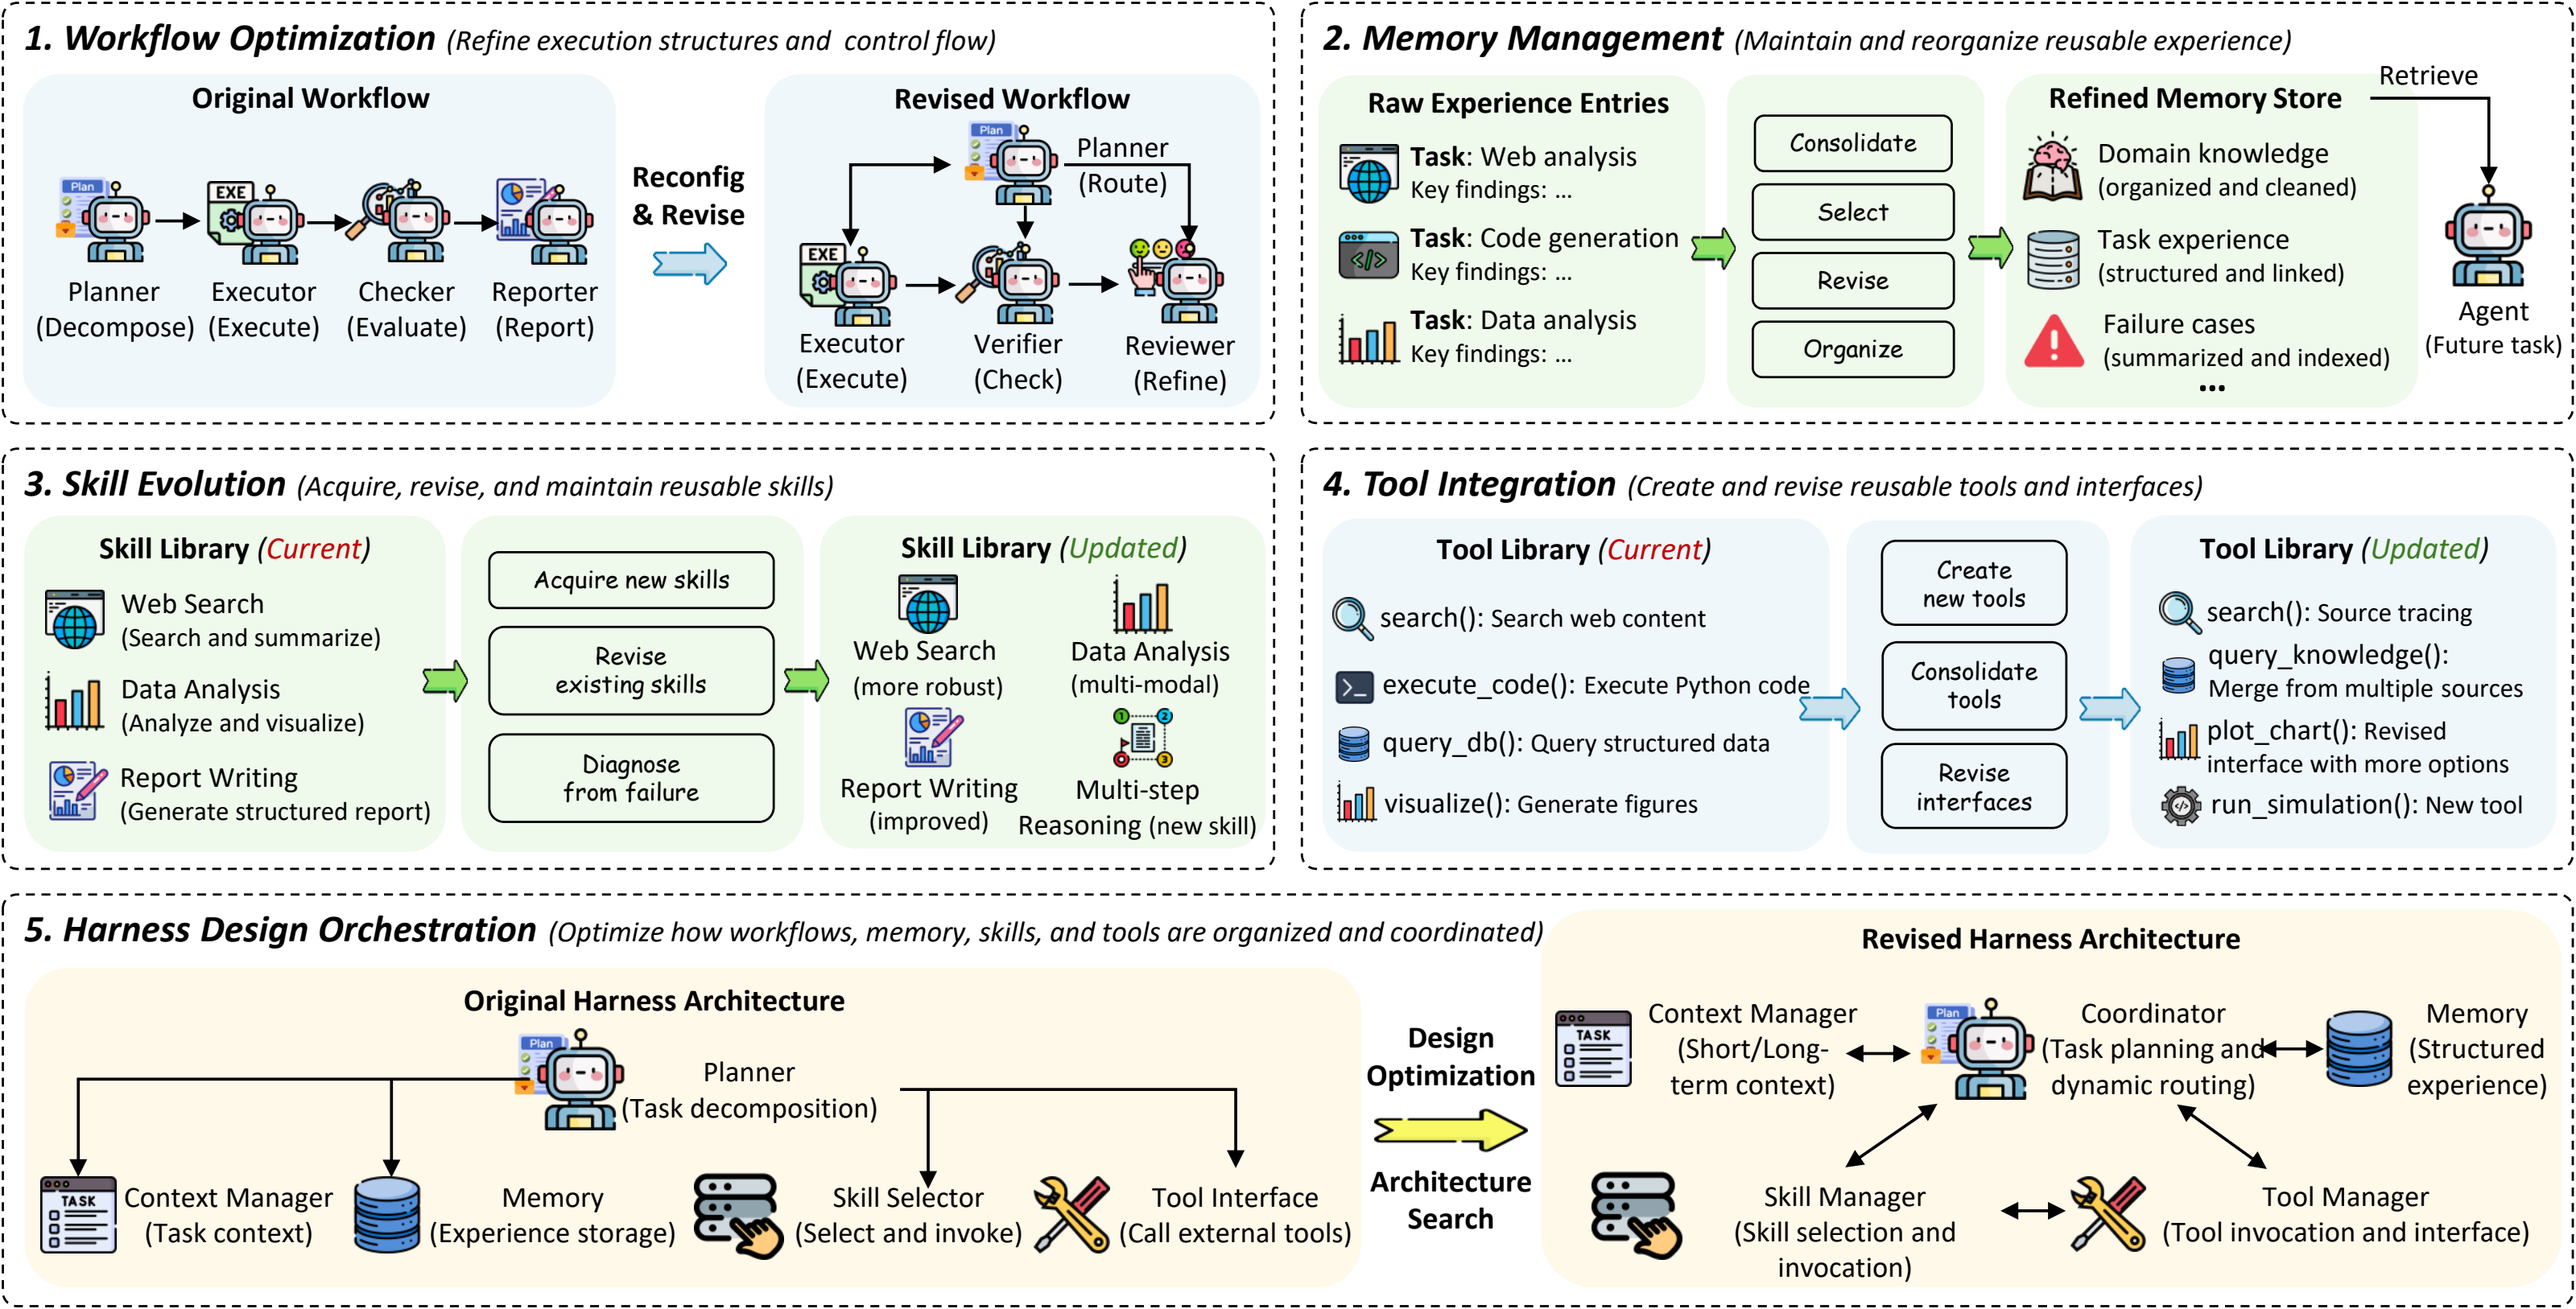
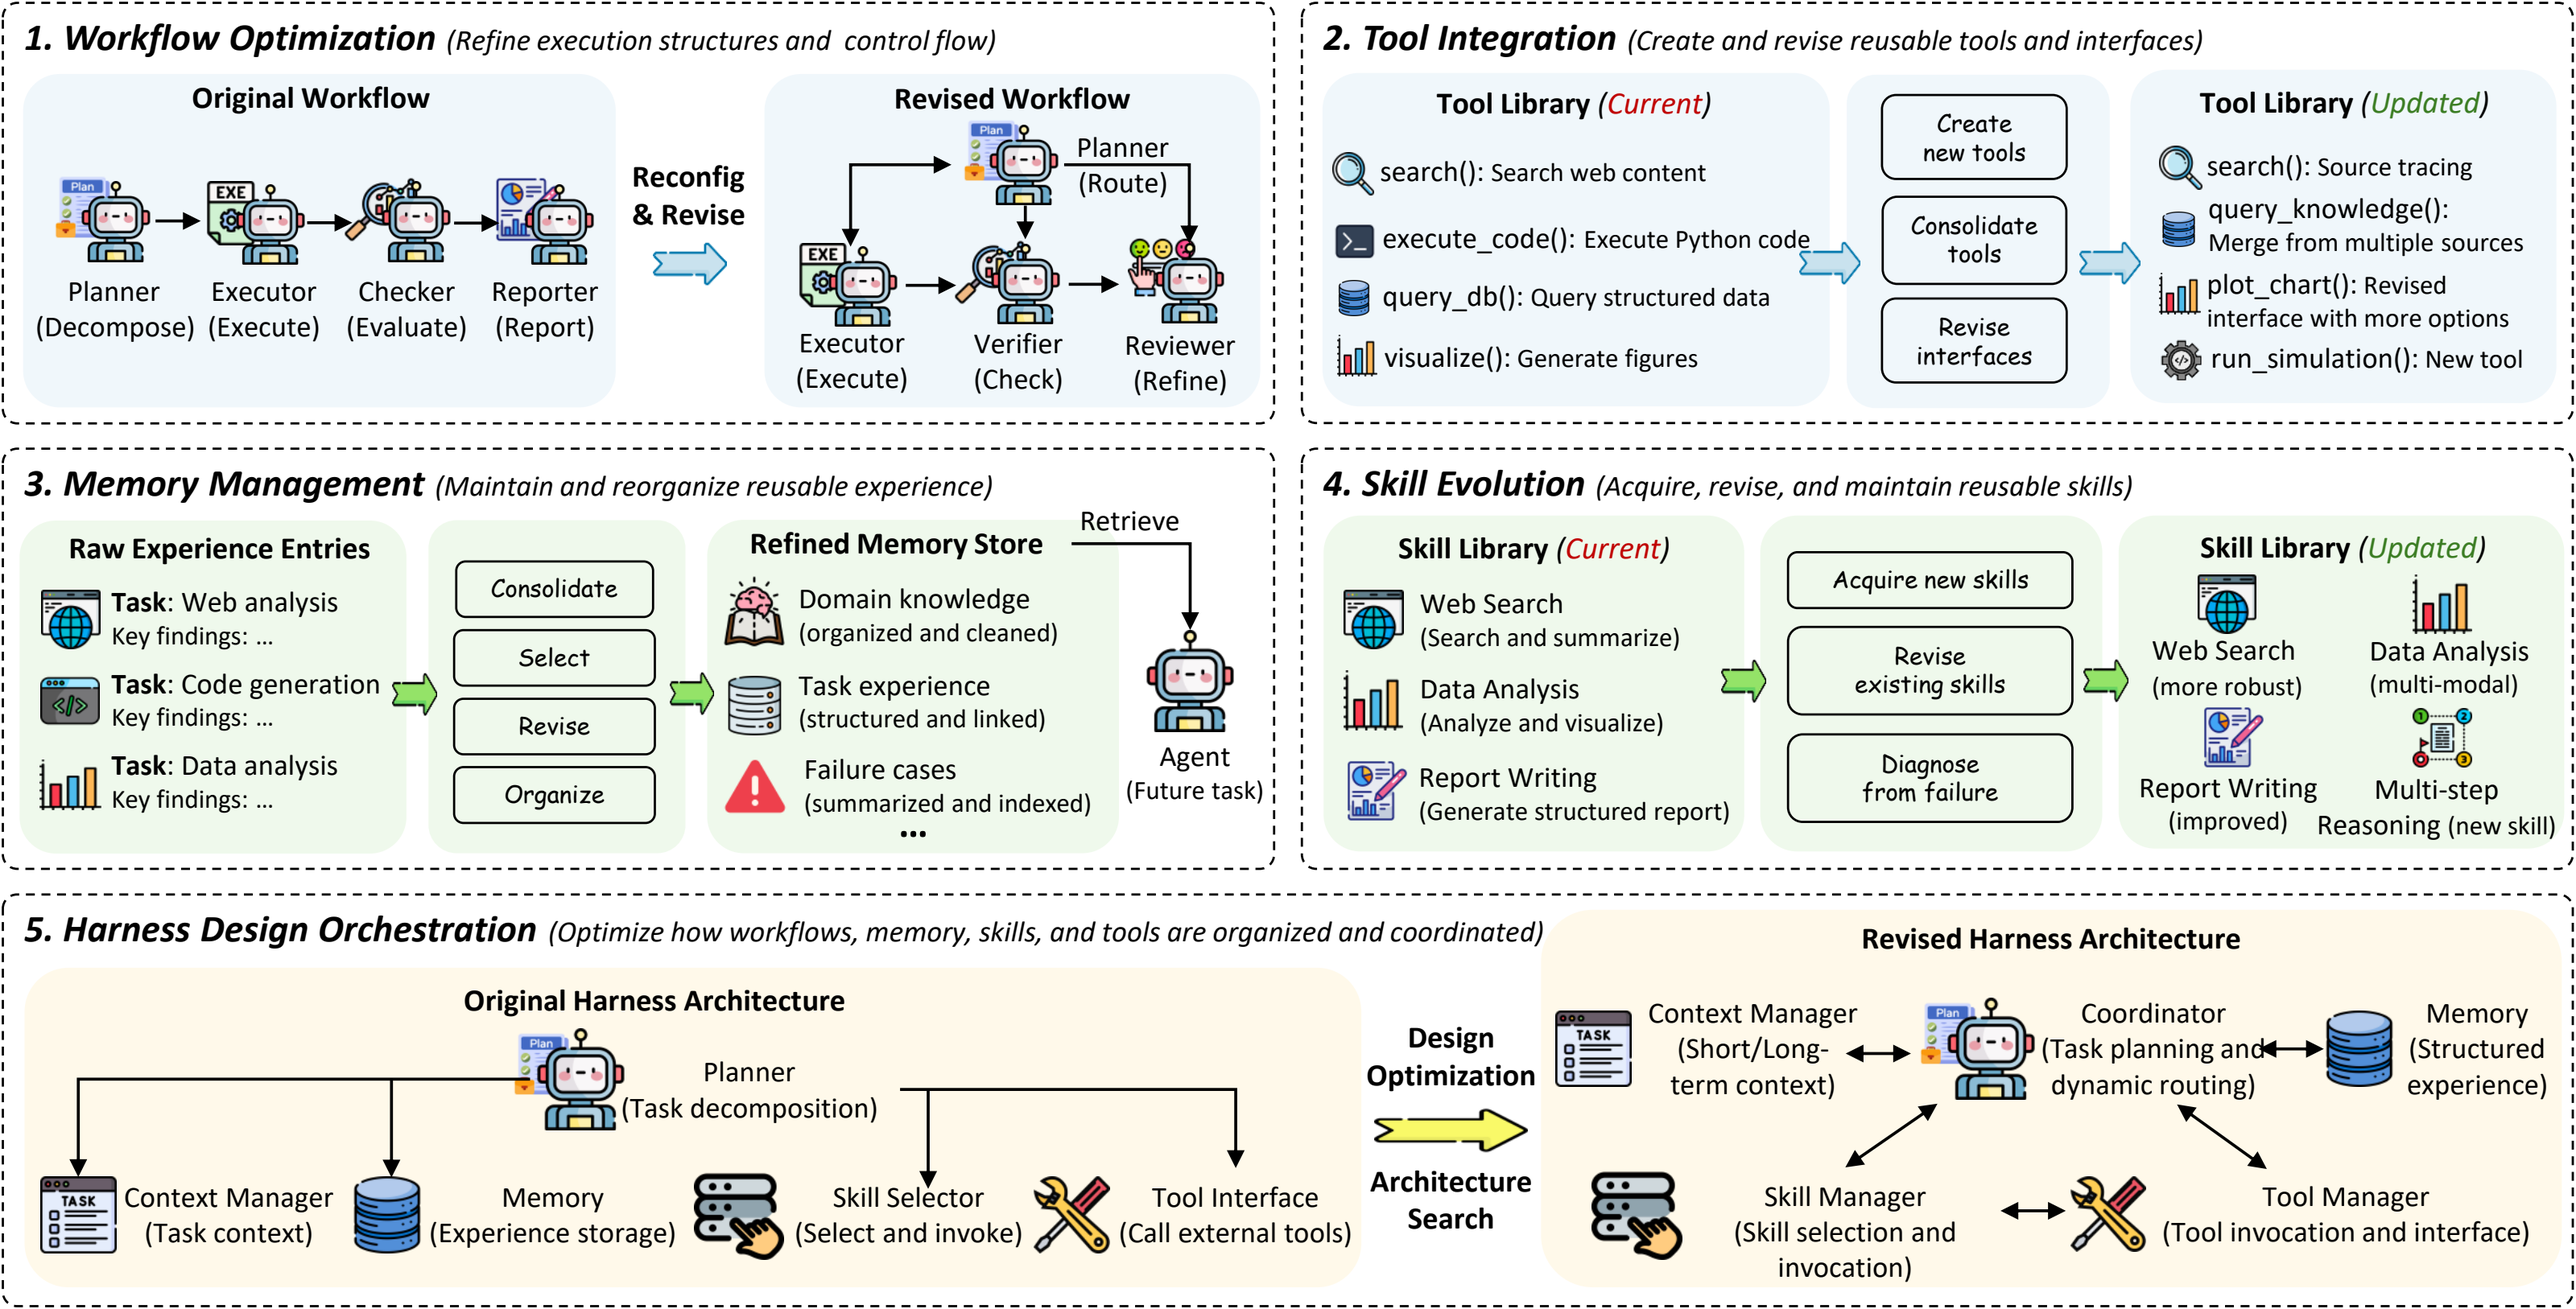
Update reliable RSI survey title, authors, papers, and figures

Changed region(s): [[0.0, 0.338, 1.0, 0.6454], [0.5, 0.0, 1.0, 0.3073]]

diff --git a/README.md b/README.md
@@ -1,4 +1,4 @@
-# What Improves, Who Drives Improve: A Roadmap Towards Recursive Self-Improvement
+# What Improves, Who Drives It: A Roadmap Towards Reliable Recursive Self-Improvement
 
 <div align="center">
   <a href="https://awesome.re"><img src="https://awesome.re/badge.svg" alt="Awesome"></a>
@@ -6,9 +6,9 @@
   <a href="https://github.com/DEEP-JLU/Awesome-RSI-Papers"><img src="https://img.shields.io/github/stars/DEEP-JLU/Awesome-RSI-Papers?style=flat" alt="GitHub stars"></a>
 </div>
 
-A curated collection of research papers, benchmarks, and open-source projects on **Recursive Self-Improvement**. This repository accompanies the survey *What Improves, Who Drives Improve: A Roadmap Towards Recursive Self-Improvement* and will be continuously updated.
+A curated collection of research papers, benchmarks, and open-source projects on **Recursive Self-Improvement**. This repository accompanies the survey *What Improves, Who Drives It: A Roadmap Towards Reliable Recursive Self-Improvement* and will be continuously updated.
 
-Recursive Self-Improvement studies how execution experience and feedback support persistent improvements to foundation models, agent harnesses, environments, and improvement mechanisms themselves. Building on the complementary axes of **What Improves** and **Who Drives Improve**, the collection organizes existing research into **seven interrelated milestones** toward RSI.
+Recursive Self-Improvement studies how execution experience and feedback support persistent improvements to foundation models, agent harnesses, environments, and the improver itself. Building on the complementary axes of **What Improves** and **Who Drives Improve**, the collection organizes existing research into **seven interrelated milestones** toward reliable RSI, emphasizing appropriate evolution targets, valid feedback, and verifiable future improvement capability.
 
 🤗 **Contributions are welcome.** If you find a missing resource or a relevant new work, please open an issue or submit a pull request.
 
@@ -22,7 +22,7 @@ Recursive Self-Improvement studies how execution experience and feedback support
 
 ## Overview
 
-The survey analyzes agent improvement toward RSI along **two complementary axes** (Fig. 1):
+The survey analyzes agent improvement toward reliable RSI along **two complementary axes** (Fig. 1):
 
 - **What Improves** characterizes the objects and scope of agent improvement, tracing how task-local output refinement extends to persistent changes in the agent, its environment, and the improver itself.
 - **Who Drives Improve** characterizes the sources of feedback and the mechanisms that guide improvement, explaining how signals are obtained and interpreted to identify weaknesses, evaluate candidate changes, and support further improvement as feedback mechanisms evolve.
@@ -32,7 +32,7 @@ The survey analyzes agent improvement toward RSI along **two complementary axes*
   <p><em>Fig. 1. Two-Axis Taxonomy Towards Recursive Self-Improvement.</em></p>
 </div>
 
-Based on the **What Improves** and **Who Drives Improve** axes in Fig. 1, we organize existing research toward RSI into **seven interrelated milestones**, as illustrated in Fig. 2.
+Based on the **What Improves** and **Who Drives Improve** axes in Fig. 1, we organize existing research toward reliable RSI into **seven interrelated milestones**, as illustrated in Fig. 2.
 
 <div align="center">
   <img width="100%" src="images/image1.png" alt="Fig. 2. Roadmap Toward Recursive Self-Improvement">
@@ -41,7 +41,7 @@ Based on the **What Improves** and **Who Drives Improve** axes in Fig. 1, we org
 
 - **Refining Output** improves task-local artifacts through critique, verification, and revision.
 - **Training Foundation Model** internalizes execution experience into persistent model capabilities.
-- **Evolving Agent Harness** improves workflows, memory, skills, tools, and integrated execution structures.
+- **Evolving Agent Harness** improves workflows, tools, memory, skills, and their orchestration.
 - **Building Environment** synthesizes, orchestrates, and evolves environments and their executable models.
 - **Automating Feedback** connects human-steered, environment-grounded, AI-facilitated, and evolving feedback.
 - **Co-Evolving Agent and Environment** couples persistent updates of agents and environments through asynchronous or synchronous co-evolution.
@@ -49,7 +49,7 @@ Based on the **What Improves** and **Who Drives Improve** axes in Fig. 1, we org
 
 ## Table of Contents
 
-- [What Improves, Who Drives Improve: A Roadmap Towards Recursive Self-Improvement](#what-improves-who-drives-improve-a-roadmap-towards-recursive-self-improvement)
+- [What Improves, Who Drives It: A Roadmap Towards Reliable Recursive Self-Improvement](#what-improves-who-drives-it-a-roadmap-towards-reliable-recursive-self-improvement)
   - [🎉 News](#-news)
   - [Overview](#overview)
   - [Table of Contents](#table-of-contents)
@@ -61,9 +61,9 @@ Based on the **What Improves** and **Who Drives Improve** axes in Fig. 1, we org
       - [Strengthening Adaptive Capabilities](#strengthening-adaptive-capabilities)
     - [Milestone III: Evolving Agent Harness](#milestone-iii-evolving-agent-harness)
       - [Workflow Optimization](#workflow-optimization)
+      - [Tool Integration](#tool-integration)
       - [Memory Management](#memory-management)
       - [Skill Evolution](#skill-evolution)
-      - [Tool Integration](#tool-integration)
       - [Harness Design Orchestration](#harness-design-orchestration)
     - [Milestone IV: Building Environment](#milestone-iv-building-environment)
       - [Environment Synthesis](#environment-synthesis)
@@ -207,12 +207,14 @@ Research papers are organized by the seven milestones introduced in the [Overvie
 - (ICLR 2026) **CodeGym** — Generalizable End-to-End Tool-Use RL with Synthetic CodeGym [[Paper]](https://proceedings.iclr.cc/paper_files/paper/2026/hash/1e4322fddd833f83c855660ac65e428d-Abstract-Conference.html)
 - (arXiv 2026) **OpenAgent** — Can Agents Generalize to the Open World? Unveiling the Fragility of Static Training in Tool Use [[Paper]](https://arxiv.org/abs/2607.01084)
 - (arXiv 2026) **RSIPO** — RSIPO: Recursive Self-Improving Policy Optimization for Agentic Reinforcement Learning via Skill-Policy Co-Evolution [[Paper]](https://arxiv.org/abs/2610.15772)
+- (arXiv 2026) **SAAS** — SAAS: Self-Aware Reinforcement Learning for Over-Search Mitigation in Agentic Search [[Paper]](https://arxiv.org/abs/2605.29796)
+- (arXiv 2026) **BAPO** — BAPO: Boundary-Aware Policy Optimization for Reliable Agentic Search [[Paper]](https://arxiv.org/abs/2601.11037)
 
 ### Milestone III: Evolving Agent Harness
 
 <div align="center">
   <img width="100%" src="images/image4.png" alt="Evolving Agent Harness">
-  <p><em>Workflow optimization, memory management, skill evolution, tool integration, and harness design orchestration.</em></p>
+  <p><em>Workflow optimization, tool integration, memory management, skill evolution, and harness design orchestration.</em></p>
 </div>
 
 #### Workflow Optimization
@@ -226,6 +228,17 @@ Research papers are organized by the seven milestones introduced in the [Overvie
 - (Proceedings of the AAAI Conference on Artificial Intelligence 2026) **A2Flow** — A²Flow: Automating Agentic Workflow Generation via Self-Adaptive Abstraction Operators [[Paper]](https://ojs.aaai.org/index.php/AAAI/article/view/40240)
 - (ICLR 2025) **ADAS** — Automated Design of Agentic Systems [[Paper]](https://openreview.net/pdf?id=t9U3LW7JVX)
 - (arXiv 2026) **CollabFlow** — CollabFlow: Recursive Self-Improvement of Agent Collaboration [[Paper]](https://arxiv.org/abs/2609.38662)
+
+#### Tool Integration
+
+- (ICLR 2024) **LATM** — Large Language Models as Tool Makers [[Paper]](https://openreview.net/forum?id=qV83K9d5WB)
+- (ICLR 2024) **CRAFT** — CRAFT: Customizing LLMs by Creating and Retrieving from Specialized Toolsets [[Paper]](https://openreview.net/forum?id=G0vdDSt9XM)
+- (ICML 2024) **TroVE** — TroVE: Inducing Verifiable and Efficient Toolboxes for Solving Programmatic Tasks [[Paper]](https://proceedings.mlr.press/v235/wang24az.html)
+- (ICML 2024) **ReGAL** — ReGAL: Refactoring Programs to Discover Generalizable Abstractions [[Paper]](https://proceedings.mlr.press/v235/stengel-eskin24a.html)
+- (arXiv 2025) **ToolLibGen** — ToolLibGen: Scalable Automatic Tool Creation and Aggregation for LLM Reasoning [[Paper]](https://arxiv.org/abs/2510.07768)
+- (ACL 2026) **GATE** — GATE: Graph-based Adaptive Tool Evolution Across Diverse Tasks [[Paper]](https://aclanthology.org/2026.acl-long.87/)
+- (Findings of ACL 2026) **ContDa** — Beyond Static Toolsets: Self-Evolving LLM Tool Agents via Continual Documentation Adaptation [[Paper]](https://aclanthology.org/2026.findings-acl.1082/)
+- (Findings of EMNLP 2023) **CREATOR** — CREATOR: Tool Creation for Disentangling Abstract and Concrete Reasoning of Large Language Models [[Paper]](https://aclanthology.org/2023.findings-emnlp.462/)
 
 #### Memory Management
 
@@ -265,17 +278,6 @@ Research papers are organized by the seven milestones introduced in the [Overvie
 - (arXiv 2026) **GraphSkillAA** — GraphSkillAA: Attribution-Guided Skill-Graph Updating with Targeted Validation and Rollback [[Paper]](https://arxiv.org/abs/2609.20455)
 - (arXiv 2026) **WikiSkill** — WikiSkill: Compiling Agent Experience into Persistent Knowledge for Skill Evolution [[Paper]](https://arxiv.org/abs/2608.27454)
 - (EMNLP 2026) **Skill.state** — SKILL.state: Scalable Long-Horizon Agent Skills [[Paper]](https://aclanthology.org/2026.emnlp-industry.264/)
-
-#### Tool Integration
-
-- (ICLR 2024) **LATM** — Large Language Models as Tool Makers [[Paper]](https://openreview.net/forum?id=qV83K9d5WB)
-- (ICLR 2024) **CRAFT** — CRAFT: Customizing LLMs by Creating and Retrieving from Specialized Toolsets [[Paper]](https://openreview.net/forum?id=G0vdDSt9XM)
-- (ICML 2024) **TroVE** — TroVE: Inducing Verifiable and Efficient Toolboxes for Solving Programmatic Tasks [[Paper]](https://proceedings.mlr.press/v235/wang24az.html)
-- (ICML 2024) **ReGAL** — ReGAL: Refactoring Programs to Discover Generalizable Abstractions [[Paper]](https://proceedings.mlr.press/v235/stengel-eskin24a.html)
-- (arXiv 2025) **ToolLibGen** — ToolLibGen: Scalable Automatic Tool Creation and Aggregation for LLM Reasoning [[Paper]](https://arxiv.org/abs/2510.07768)
-- (ACL 2026) **GATE** — GATE: Graph-based Adaptive Tool Evolution Across Diverse Tasks [[Paper]](https://aclanthology.org/2026.acl-long.87/)
-- (Findings of ACL 2026) **ContDa** — Beyond Static Toolsets: Self-Evolving LLM Tool Agents via Continual Documentation Adaptation [[Paper]](https://aclanthology.org/2026.findings-acl.1082/)
-- (Findings of EMNLP 2023) **CREATOR** — CREATOR: Tool Creation for Disentangling Abstract and Concrete Reasoning of Large Language Models [[Paper]](https://aclanthology.org/2023.findings-emnlp.462/)
 
 #### Harness Design Orchestration
 
@@ -434,6 +436,7 @@ Research papers are organized by the seven milestones introduced in the [Overvie
 - (arXiv 2025) **GUI-PRA** — GUI-PRA: Process Reward Agent for GUI Tasks [[Paper]](https://arxiv.org/abs/2509.23263v3)
 - (arXiv 2026) **VAGEN** — Agentic Reward Modeling: Verifying GUI Agent via Progressive Trajectory-Grounded Interaction [[Paper]](https://arxiv.org/abs/2602.00575v2)
 - (ACL 2025) **RewardAgent** — Agentic Reward Modeling: Integrating Human Preferences with Verifiable Correctness Signals for Reliable Reward Systems [[Paper]](https://aclanthology.org/2025.acl-long.775/)
+- (ACL 2026) **LegalGraphRAG** — LegalGraphRAG: Multi-Agent Graph Retrieval-Augmented Generation for Reliable Legal Reasoning [[Paper]](https://aclanthology.org/2026.acl-long.1738/)
 - (arXiv 2025) **OpenReward** — OpenReward: Learning to Reward Long-form Agentic Tasks via Reinforcement Learning [[Paper]](https://arxiv.org/abs/2510.24636v3)
 - (arXiv 2026) **AgentV-RL** — AgentV-RL: Scaling Reward Modeling with Agentic Verifier [[Paper]](https://arxiv.org/abs/2604.16004v1)
 - (arXiv 2026) **Agentic Verifier** — Scaling Agentic Verifier for Competitive Coding [[Paper]](https://arxiv.org/abs/2602.04254v1)
@@ -459,6 +462,7 @@ Research papers are organized by the seven milestones introduced in the [Overvie
 - (arXiv 2026) **Jev Benchmark** — Evaluating and Benchmarking the System One Model Jev [[Paper]](https://arxiv.org/abs/2609.37647v1)
 - (arXiv 2026) **Jev as a Judge for RAG** — Jev-as-a-Judge for RAG Claim Verification: Confidence-Gated Cascading Between a Non-Generative Verifier and a Frontier LLM [[Paper]](https://arxiv.org/abs/2610.20634)
 - (arXiv 2026) **Jev as a Judge for Agent Trace Security** — JEV as a Judge for Agent Trace Security: An Empirical Comparison with Generative LLM Judges [[Paper]](https://arxiv.org/abs/2609.34862)
+- (arXiv 2026) **ErrorLLM** — ErrorLLM: Modeling SQL Errors for Text-to-SQL Refinement [[Paper]](https://arxiv.org/abs/2603.03742)
 
 #### Evolving Feedback
 
@@ -904,9 +908,23 @@ Representative systems and application domains covered by the survey:
 If you find this repository useful, please cite the accompanying survey:
 
 ```bibtex
-@unpublished{anonymous2026rsi,
-  title={What Improves, Who Drives Improve: A Roadmap Towards Recursive Self-Improvement},
-  author={{Anonymous authors}},
+@unpublished{liu2026reliablersi,
+  title={What Improves, Who Drives It: A Roadmap Towards Reliable Recursive Self-Improvement},
+  author={Zhaoxu Liu and
+          Yuyuan Feng and
+          Sihan Huang and
+          Haocong Niu and
+          Chaobin Yang and
+          Yujing Zhang and
+          Chang Yang and
+          Wei Chen and
+          Jiwei Zheng and
+          Jiao Li and
+          Zhihong Zhang and
+          Xiao Huang and
+          Xin Wang and
+          Qinggang Zhang and
+          Yi Chang},
   note={Manuscript},
   year={2026}
 }
